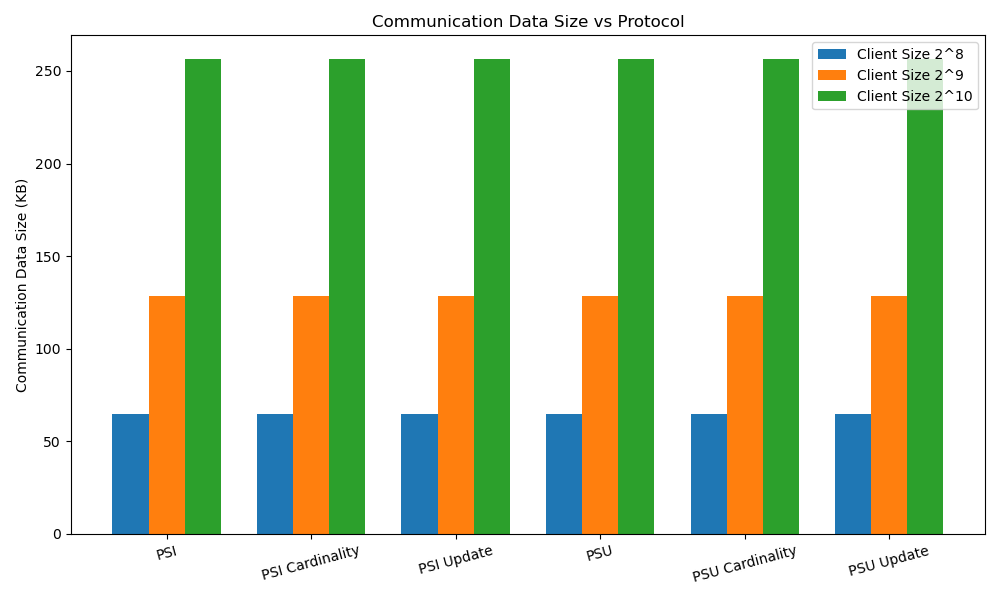
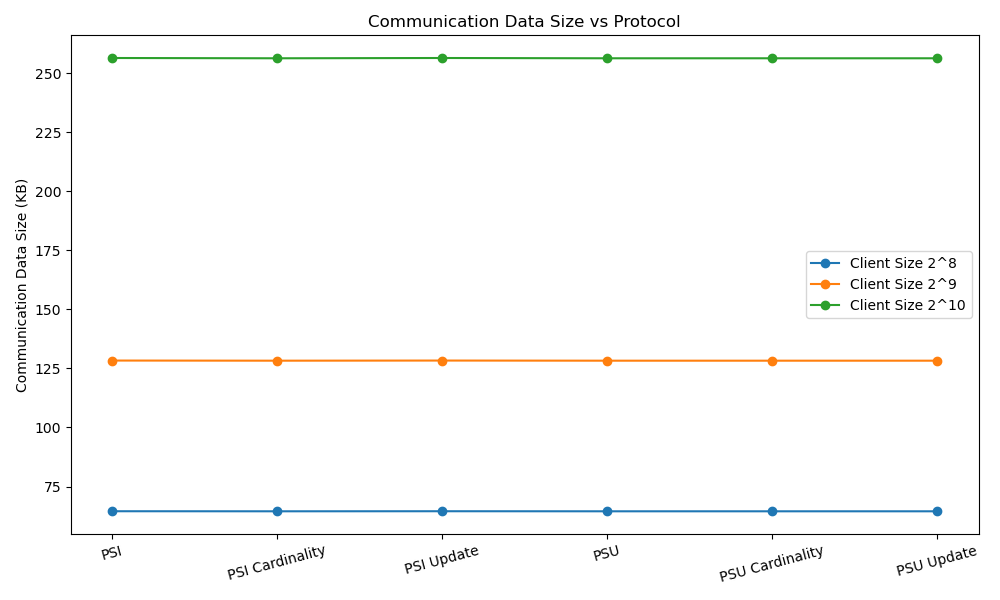
docs: update project title and refactor performance plotting to line charts

diff --git a/plot_perf_data.py b/plot_perf_data.py
@@ -17,16 +17,15 @@ for s_size in server_sizes:
     
     plt.figure(figsize=(10, 6))
     x = np.arange(len(protocols))
-    width = 0.25
     
-    for i, c_size in enumerate(client_sizes):
+    for c_size in client_sizes:
         c_subset = subset[subset['Client Set Size'] == c_size]
         times = []
         for p in protocols:
             val = c_subset[c_subset['Protocol'] == p]['Online Total Time (ms)'].values
             times.append(val[0] if len(val)>0 else 0)
         
-        plt.bar(x + (i - 1) * width, times, width, label=f'Client Size {c_size}')
+        plt.plot(x, times, marker='o', label=f'Client Size {c_size}')
     
     plt.ylabel('Online Total Time (ms)')
     plt.title(f'Online Total Time vs Protocol (Server Size: {s_size})')
@@ -40,14 +39,13 @@ for s_size in server_sizes:
 subset = df[df['Server Set Size'] == server_sizes[0]]
 plt.figure(figsize=(10, 6))
 x = np.arange(len(protocols))
-width = 0.25
-for i, c_size in enumerate(client_sizes):
+for c_size in client_sizes:
     c_subset = subset[subset['Client Set Size'] == c_size]
     sizes = []
     for p in protocols:
         val = c_subset[c_subset['Protocol'] == p]['Comm. Data Size'].values
         sizes.append(val[0] if len(val)>0 else 0)
-    plt.bar(x + (i - 1) * width, sizes, width, label=f'Client Size {c_size}')
+    plt.plot(x, sizes, marker='o', label=f'Client Size {c_size}')
 
 plt.ylabel('Communication Data Size (KB)')
 plt.title('Communication Data Size vs Protocol')

diff --git a/README.md b/README.md
@@ -1,4 +1,4 @@
-# Faster Than Ever PSI (Private Set Intersection) with Intel SGX
+# Doubly-efficient Unbalanced  PSI and PSU from Trusted Hardware with Offline Pre-processing 
 
 ## Abstract
 This repository contains the reference implementation for our **Unbalanced Private Set Intersection (PSI)** protocol and its variants. Built on Intel SGX and optimized with a parallel Oblivious Map (OMap) data structure, this repository also includes the complete implementation of our **Unbalanced Private Set Union (PSU)** protocol and its different variants.
